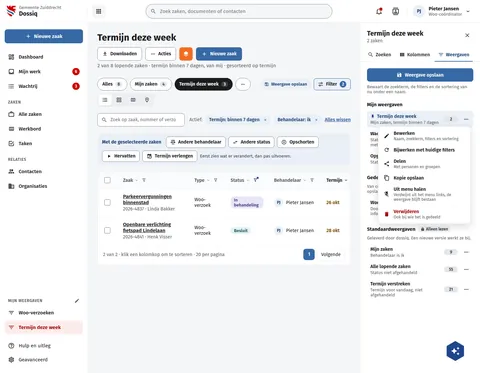
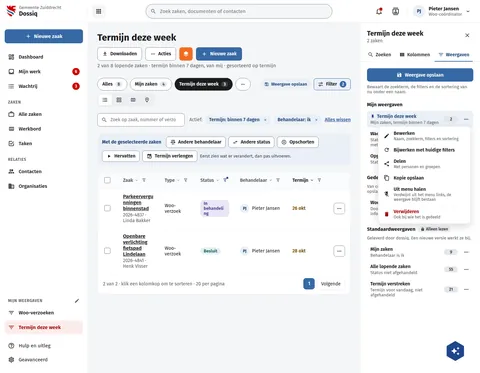
fix(screens): the case table fits its column beside the side panel
DqFilterBeheren and DqFilterInMenu drew the table with min-width 860px, so
the list card grew to about 836px in a 760px column. The table drops the
minimum and fits its column as live will (nextcloud-vue
fix/r30-board-table-fits-beside-side-panel): body cells wrap (a long word
breaks), headers stay on one line. Rendered: table 758 in 758, no sideways
scroll. DqFilterBeheren height 1391 -> 1745; screens.json for it only.
DqZakenSorteren shows cards, not this table, and is unchanged.

Assisted-by: ClaudeCode:claude-opus-5-5

diff --git a/preview/screens/boards/DqFilterBeheren.html b/preview/screens/boards/DqFilterBeheren.html
@@ -189,8 +189,8 @@ a{color:var(--sc-primary, #3669a5)}a:hover{color:var(--sc-primary-deep, #234a78)
         <div role="region" aria-label="Acties voor de selectie" style="display: flex; flex-wrap: wrap; gap: 8px; align-items: center; padding: 10px 14px; border-radius: 10px; background: var(--sc-primary-light, #eaf0f7); color: var(--sc-primary-deep, #234a78); font-size: 14px"><strong style="margin-right: 6px">Met de geselecteerde zaken</strong><button type="button" style="display: inline-flex; align-items: center; gap: 8px; height: 34px; padding: 0 12px; border-radius: 8px; font: 600 14px var(--sc-font, 'Fira Sans'), sans-serif; white-space: nowrap; border: 1px solid var(--sc-work-field, #828a95); background: #ffffff; color: var(--sc-work-ink, #1b1c1d)"><svg width="16" height="16" viewbox="0 0 24 24" fill="currentColor" aria-hidden="true"><path d="M16 9C22 9 22 13 22 13V15H16V13C16 13 16 11.31 14.85 9.8C14.68 9.57 14.47 9.35 14.25 9.14C14.77 9.06 15.34 9 16 9M8 11C11.5 11 11.94 12.56 12 13H4C4.06 12.56 4.5 11 8 11M8 9C2 9 2 13 2 13V15H14V13C14 13 14 9 8 9M9 17V19H15V17L18 20L15 23V21H9V23L6 20L9 17M8 3C8.55 3 9 3.45 9 4S8.55 5 8 5 7 4.55 7 4 7.45 3 8 3M8 1C6.34 1 5 2.34 5 4S6.34 7 8 7 11 5.66 11 4 9.66 1 8 1M16 1C14.34 1 13 2.34 13 4S14.34 7 16 7 19 5.66 19 4 17.66 1 16 1Z"></path></svg>Andere behandelaar</button><button type="button" style="display: inline-flex; align-items: center; gap: 8px; height: 34px; padding: 0 12px; border-radius: 8px; font: 600 14px var(--sc-font, 'Fira Sans'), sans-serif; white-space: nowrap; border: 1px solid var(--sc-work-field, #828a95); background: #ffffff; color: var(--sc-work-ink, #1b1c1d)"><svg width="16" height="16" viewbox="0 0 24 24" fill="currentColor" aria-hidden="true"><path d="M21,9L17,5V8H10V10H17V13M7,11L3,15L7,19V16H14V14H7V11Z"></path></svg>Andere status</button><button type="button" style="display: inline-flex; align-items: center; gap: 8px; height: 34px; padding: 0 12px; border-radius: 8px; font: 600 14px var(--sc-font, 'Fira Sans'), sans-serif; white-space: nowrap; border: 1px solid var(--sc-work-field, #828a95); background: #ffffff; color: var(--sc-work-ink, #1b1c1d)"><svg width="16" height="16" viewbox="0 0 24 24" fill="currentColor" aria-hidden="true"><path d="M13,16V8H15V16H13M9,16V8H11V16H9M12,2A10,10 0 0,1 22,12A10,10 0 0,1 12,22A10,10 0 0,1 2,12A10,10 0 0,1 12,2M12,4A8,8 0 0,0 4,12A8,8 0 0,0 12,20A8,8 0 0,0 20,12A8,8 0 0,0 12,4Z"></path></svg>Opschorten</button><button type="button" style="display: inline-flex; align-items: center; gap: 8px; height: 34px; padding: 0 12px; border-radius: 8px; font: 600 14px var(--sc-font, 'Fira Sans'), sans-serif; white-space: nowrap; border: 1px solid var(--sc-work-field, #828a95); background: #ffffff; color: var(--sc-work-ink, #1b1c1d)"><svg width="16" height="16" viewbox="0 0 24 24" fill="currentColor" aria-hidden="true"><path d="M8,5.14V19.14L19,12.14L8,5.14Z"></path></svg>Hervatten</button><button type="button" style="display: inline-flex; align-items: center; gap: 8px; height: 34px; padding: 0 12px; border-radius: 8px; font: 600 14px var(--sc-font, 'Fira Sans'), sans-serif; white-space: nowrap; border: 1px solid var(--sc-work-field, #828a95); background: #ffffff; color: var(--sc-work-ink, #1b1c1d)"><svg width="16" height="16" viewbox="0 0 24 24" fill="currentColor" aria-hidden="true"><path d="M15,13H16.5V15.82L18.94,17.23L18.19,18.53L15,16.69V13M19,8H5V19H9.67C9.24,18.09 9,17.07 9,16A7,7 0 0,1 16,9C17.07,9 18.09,9.24 19,9.67V8M5,21C3.89,21 3,20.1 3,19V5C3,3.89 3.89,3 5,3H6V1H8V3H16V1H18V3H19A2,2 0 0,1 21,5V11.1C22.24,12.36 23,14.09 23,16A7,7 0 0,1 16,23C14.09,23 12.36,22.24 11.1,21H5M16,11.15A4.85,4.85 0 0,0 11.15,16C11.15,18.68 13.32,20.85 16,20.85A4.85,4.85 0 0,0 20.85,16C20.85,13.32 18.68,11.15 16,11.15Z"></path></svg>Termijn verlengen</button><span style="font-size: 13px; color: var(--sc-work-text, #3d4047)">Eerst zien wat er verandert, dan pas uitvoeren.</span></div>
         <div style="background: #ffffff; border: 1px solid var(--sc-work-line, #e4e6ea); border-radius: 12px; overflow: hidden">
           <div style="overflow-x: auto">
-            <table style="border-collapse: collapse; width: 100%; min-width: 860px; font-size: 14px">
-              <thead>
+            <table style="border-collapse: collapse; width: 100%; font-size: 14px">
+              <thead style="white-space: nowrap;">
                 <tr style="text-align: left; color: var(--sc-work-muted, #5e6168); background: #fafbfc">
                   <th scope="col" style="padding: 12px 16px; width: 28px"><input type="checkbox" aria-label="Alle zaken selecteren" style="width: 18px; height: 18px; accent-color: var(--sc-primary, #3669a5)"></th>
                   <th scope="col" style="padding: 12px 16px; font-weight: 600"><span style="display: inline-flex; align-items: center; gap: 4px"><button type="button" style="border: 0; background: transparent; padding: 0; font: inherit; color: inherit; display: inline-flex; gap: 4px; align-items: center; text-align: left">Zaak <svg width="14" height="14" viewbox="0 0 24 24" fill="#828a95" aria-hidden="true" style="fill:var(--sc-work-field, #828a95)"><path d="M7.41,8.58L12,13.17L16.59,8.58L18,10L12,16L6,10L7.41,8.58Z"></path></svg></button><button type="button" aria-haspopup="dialog" aria-label="Filteren op Zaak" title="Filteren op Zaak" style="width: 22px; height: 22px; padding: 0; border: 0; border-radius: 4px; background: transparent; color: var(--sc-work-muted, #5e6168); display: inline-flex; align-items: center; justify-content: center"><svg width="14" height="14" viewbox="0 0 24 24" fill="currentColor" aria-hidden="true"><path d="M15,19.88C15.04,20.18 14.94,20.5 14.71,20.71C14.32,21.1 13.69,21.1 13.3,20.71L9.29,16.7C9.06,16.47 8.96,16.16 9,15.87V10.75L4.21,4.62C3.87,4.19 3.95,3.56 4.38,3.22C4.57,3.08 4.78,3 5,3V3H19V3C19.22,3 19.43,3.08 19.62,3.22C20.05,3.56 20.13,4.19 19.79,4.62L15,10.75V19.88M7.04,5L11,10.06V15.58L13,17.58V10.05L16.96,5H7.04Z"></path></svg></button></span></th>
@@ -200,7 +200,7 @@ a{color:var(--sc-primary, #3669a5)}a:hover{color:var(--sc-primary-deep, #234a78)
                   <th scope="col" style="padding: 12px 16px; font-weight: 600"><span style="display: inline-flex; align-items: center; gap: 4px"><button type="button" style="border: 0; background: transparent; padding: 0; font: 600 14px var(--sc-font, 'Fira Sans'), sans-serif; color: var(--sc-work-ink, #1b1c1d); display: flex; gap: 4px; align-items: center">Termijn <svg width="14" height="14" viewbox="0 0 24 24" fill="currentColor"><path d="M7.41,8.58L12,13.17L16.59,8.58L18,10L12,16L6,10L7.41,8.58Z"></path></svg></button><button type="button" aria-haspopup="dialog" aria-label="Filteren op Termijn" title="Filteren op Termijn" style="width: 22px; height: 22px; padding: 0; border: 0; border-radius: 4px; background: transparent; color: var(--sc-work-muted, #5e6168); display: inline-flex; align-items: center; justify-content: center"><svg width="14" height="14" viewbox="0 0 24 24" fill="currentColor" aria-hidden="true"><path d="M15,19.88C15.04,20.18 14.94,20.5 14.71,20.71C14.32,21.1 13.69,21.1 13.3,20.71L9.29,16.7C9.06,16.47 8.96,16.16 9,15.87V10.75L4.21,4.62C3.87,4.19 3.95,3.56 4.38,3.22C4.57,3.08 4.78,3 5,3V3H19V3C19.22,3 19.43,3.08 19.62,3.22C20.05,3.56 20.13,4.19 19.79,4.62L15,10.75V19.88M7.04,5L11,10.06V15.58L13,17.58V10.05L16.96,5H7.04Z"></path></svg></button></span></th>
                 <th scope="col" style="padding: 12px 16px"><span style="position: absolute; width: 1px; height: 1px; overflow: hidden; clip: rect(0 0 0 0)">Acties</span></th></tr>
               </thead>
-              <tbody>
+              <tbody style="overflow-wrap: anywhere;">
                 
                   <tr style="border-top: 1px solid var(--sc-work-soft, #eef0f3)">
                     <td style="padding: 14px 16px"><input type="checkbox" aria-label="Selecteer Parkeervergunningen binnenstad" style="width: 18px; height: 18px; accent-color: var(--sc-primary, #3669a5)"></td>

diff --git a/preview/screens/boards/DqFilterInMenu.html b/preview/screens/boards/DqFilterInMenu.html
@@ -189,8 +189,8 @@ a{color:var(--sc-primary, #3669a5)}a:hover{color:var(--sc-primary-deep, #234a78)
         <div role="region" aria-label="Acties voor de selectie" style="display: flex; flex-wrap: wrap; gap: 8px; align-items: center; padding: 10px 14px; border-radius: 10px; background: var(--sc-primary-light, #eaf0f7); color: var(--sc-primary-deep, #234a78); font-size: 14px"><strong style="margin-right: 6px">Met de geselecteerde zaken</strong><button type="button" style="display: inline-flex; align-items: center; gap: 8px; height: 34px; padding: 0 12px; border-radius: 8px; font: 600 14px var(--sc-font, 'Fira Sans'), sans-serif; white-space: nowrap; border: 1px solid var(--sc-work-field, #828a95); background: #ffffff; color: var(--sc-work-ink, #1b1c1d)"><svg width="16" height="16" viewbox="0 0 24 24" fill="currentColor" aria-hidden="true"><path d="M16 9C22 9 22 13 22 13V15H16V13C16 13 16 11.31 14.85 9.8C14.68 9.57 14.47 9.35 14.25 9.14C14.77 9.06 15.34 9 16 9M8 11C11.5 11 11.94 12.56 12 13H4C4.06 12.56 4.5 11 8 11M8 9C2 9 2 13 2 13V15H14V13C14 13 14 9 8 9M9 17V19H15V17L18 20L15 23V21H9V23L6 20L9 17M8 3C8.55 3 9 3.45 9 4S8.55 5 8 5 7 4.55 7 4 7.45 3 8 3M8 1C6.34 1 5 2.34 5 4S6.34 7 8 7 11 5.66 11 4 9.66 1 8 1M16 1C14.34 1 13 2.34 13 4S14.34 7 16 7 19 5.66 19 4 17.66 1 16 1Z"></path></svg>Andere behandelaar</button><button type="button" style="display: inline-flex; align-items: center; gap: 8px; height: 34px; padding: 0 12px; border-radius: 8px; font: 600 14px var(--sc-font, 'Fira Sans'), sans-serif; white-space: nowrap; border: 1px solid var(--sc-work-field, #828a95); background: #ffffff; color: var(--sc-work-ink, #1b1c1d)"><svg width="16" height="16" viewbox="0 0 24 24" fill="currentColor" aria-hidden="true"><path d="M21,9L17,5V8H10V10H17V13M7,11L3,15L7,19V16H14V14H7V11Z"></path></svg>Andere status</button><button type="button" style="display: inline-flex; align-items: center; gap: 8px; height: 34px; padding: 0 12px; border-radius: 8px; font: 600 14px var(--sc-font, 'Fira Sans'), sans-serif; white-space: nowrap; border: 1px solid var(--sc-work-field, #828a95); background: #ffffff; color: var(--sc-work-ink, #1b1c1d)"><svg width="16" height="16" viewbox="0 0 24 24" fill="currentColor" aria-hidden="true"><path d="M13,16V8H15V16H13M9,16V8H11V16H9M12,2A10,10 0 0,1 22,12A10,10 0 0,1 12,22A10,10 0 0,1 2,12A10,10 0 0,1 12,2M12,4A8,8 0 0,0 4,12A8,8 0 0,0 12,20A8,8 0 0,0 20,12A8,8 0 0,0 12,4Z"></path></svg>Opschorten</button><button type="button" style="display: inline-flex; align-items: center; gap: 8px; height: 34px; padding: 0 12px; border-radius: 8px; font: 600 14px var(--sc-font, 'Fira Sans'), sans-serif; white-space: nowrap; border: 1px solid var(--sc-work-field, #828a95); background: #ffffff; color: var(--sc-work-ink, #1b1c1d)"><svg width="16" height="16" viewbox="0 0 24 24" fill="currentColor" aria-hidden="true"><path d="M8,5.14V19.14L19,12.14L8,5.14Z"></path></svg>Hervatten</button><button type="button" style="display: inline-flex; align-items: center; gap: 8px; height: 34px; padding: 0 12px; border-radius: 8px; font: 600 14px var(--sc-font, 'Fira Sans'), sans-serif; white-space: nowrap; border: 1px solid var(--sc-work-field, #828a95); background: #ffffff; color: var(--sc-work-ink, #1b1c1d)"><svg width="16" height="16" viewbox="0 0 24 24" fill="currentColor" aria-hidden="true"><path d="M15,13H16.5V15.82L18.94,17.23L18.19,18.53L15,16.69V13M19,8H5V19H9.67C9.24,18.09 9,17.07 9,16A7,7 0 0,1 16,9C17.07,9 18.09,9.24 19,9.67V8M5,21C3.89,21 3,20.1 3,19V5C3,3.89 3.89,3 5,3H6V1H8V3H16V1H18V3H19A2,2 0 0,1 21,5V11.1C22.24,12.36 23,14.09 23,16A7,7 0 0,1 16,23C14.09,23 12.36,22.24 11.1,21H5M16,11.15A4.85,4.85 0 0,0 11.15,16C11.15,18.68 13.32,20.85 16,20.85A4.85,4.85 0 0,0 20.85,16C20.85,13.32 18.68,11.15 16,11.15Z"></path></svg>Termijn verlengen</button><span style="font-size: 13px; color: var(--sc-work-text, #3d4047)">Eerst zien wat er verandert, dan pas uitvoeren.</span></div>
         <div style="background: #ffffff; border: 1px solid var(--sc-work-line, #e4e6ea); border-radius: 12px; overflow: hidden">
           <div style="overflow-x: auto">
-            <table style="border-collapse: collapse; width: 100%; min-width: 860px; font-size: 14px">
-              <thead>
+            <table style="border-collapse: collapse; width: 100%; font-size: 14px">
+              <thead style="white-space: nowrap;">
                 <tr style="text-align: left; color: var(--sc-work-muted, #5e6168); background: #fafbfc">
                   <th scope="col" style="padding: 12px 16px; width: 28px"><input type="checkbox" aria-label="Alle zaken selecteren" style="width: 18px; height: 18px; accent-color: var(--sc-primary, #3669a5)"></th>
                   <th scope="col" style="padding: 12px 16px; font-weight: 600"><span style="display: inline-flex; align-items: center; gap: 4px"><button type="button" style="border: 0; background: transparent; padding: 0; font: inherit; color: inherit; display: inline-flex; gap: 4px; align-items: center; text-align: left">Zaak <svg width="14" height="14" viewbox="0 0 24 24" fill="#828a95" aria-hidden="true" style="fill:var(--sc-work-field, #828a95)"><path d="M7.41,8.58L12,13.17L16.59,8.58L18,10L12,16L6,10L7.41,8.58Z"></path></svg></button><button type="button" aria-haspopup="dialog" aria-label="Filteren op Zaak" title="Filteren op Zaak" style="width: 22px; height: 22px; padding: 0; border: 0; border-radius: 4px; background: transparent; color: var(--sc-work-muted, #5e6168); display: inline-flex; align-items: center; justify-content: center"><svg width="14" height="14" viewbox="0 0 24 24" fill="currentColor" aria-hidden="true"><path d="M15,19.88C15.04,20.18 14.94,20.5 14.71,20.71C14.32,21.1 13.69,21.1 13.3,20.71L9.29,16.7C9.06,16.47 8.96,16.16 9,15.87V10.75L4.21,4.62C3.87,4.19 3.95,3.56 4.38,3.22C4.57,3.08 4.78,3 5,3V3H19V3C19.22,3 19.43,3.08 19.62,3.22C20.05,3.56 20.13,4.19 19.79,4.62L15,10.75V19.88M7.04,5L11,10.06V15.58L13,17.58V10.05L16.96,5H7.04Z"></path></svg></button></span></th>
@@ -200,7 +200,7 @@ a{color:var(--sc-primary, #3669a5)}a:hover{color:var(--sc-primary-deep, #234a78)
                   <th scope="col" style="padding: 12px 16px; font-weight: 600"><span style="display: inline-flex; align-items: center; gap: 4px"><button type="button" style="border: 0; background: transparent; padding: 0; font: 600 14px var(--sc-font, 'Fira Sans'), sans-serif; color: var(--sc-work-ink, #1b1c1d); display: flex; gap: 4px; align-items: center">Termijn <svg width="14" height="14" viewbox="0 0 24 24" fill="currentColor"><path d="M7.41,8.58L12,13.17L16.59,8.58L18,10L12,16L6,10L7.41,8.58Z"></path></svg></button><button type="button" aria-haspopup="dialog" aria-label="Filteren op Termijn" title="Filteren op Termijn" style="width: 22px; height: 22px; padding: 0; border: 0; border-radius: 4px; background: transparent; color: var(--sc-work-muted, #5e6168); display: inline-flex; align-items: center; justify-content: center"><svg width="14" height="14" viewbox="0 0 24 24" fill="currentColor" aria-hidden="true"><path d="M15,19.88C15.04,20.18 14.94,20.5 14.71,20.71C14.32,21.1 13.69,21.1 13.3,20.71L9.29,16.7C9.06,16.47 8.96,16.16 9,15.87V10.75L4.21,4.62C3.87,4.19 3.95,3.56 4.38,3.22C4.57,3.08 4.78,3 5,3V3H19V3C19.22,3 19.43,3.08 19.62,3.22C20.05,3.56 20.13,4.19 19.79,4.62L15,10.75V19.88M7.04,5L11,10.06V15.58L13,17.58V10.05L16.96,5H7.04Z"></path></svg></button></span></th>
                 <th scope="col" style="padding: 12px 16px"><span style="position: absolute; width: 1px; height: 1px; overflow: hidden; clip: rect(0 0 0 0)">Acties</span></th></tr>
               </thead>
-              <tbody>
+              <tbody style="overflow-wrap: anywhere;">
                 
                   <tr style="border-top: 1px solid var(--sc-work-soft, #eef0f3)">
                     <td style="padding: 14px 16px"><input type="checkbox" aria-label="Selecteer Parkeervergunningen binnenstad" style="width: 18px; height: 18px; accent-color: var(--sc-primary, #3669a5)"></td>

diff --git a/screens-src/zuiddrecht/DqFilterBeheren.dc.html b/screens-src/zuiddrecht/DqFilterBeheren.dc.html
@@ -61,8 +61,8 @@ a{color:#3669a5}a:hover{color:#234a78}
         <div role="region" aria-label="Acties voor de selectie" style="display: flex; flex-wrap: wrap; gap: 8px; align-items: center; padding: 10px 14px; border-radius: 10px; background: #eaf0f7; color: #234a78; font-size: 14px"><strong style="margin-right: 6px">Met de geselecteerde zaken</strong><button type="button" style="display: inline-flex; align-items: center; gap: 8px; height: 34px; padding: 0 12px; border-radius: 8px; font: 600 14px 'Fira Sans', sans-serif; white-space: nowrap; border: 1px solid #828a95; background: #ffffff; color: #1b1c1d"><svg width="16" height="16" viewBox="0 0 24 24" fill="currentColor" aria-hidden="true"><path d="M16 9C22 9 22 13 22 13V15H16V13C16 13 16 11.31 14.85 9.8C14.68 9.57 14.47 9.35 14.25 9.14C14.77 9.06 15.34 9 16 9M8 11C11.5 11 11.94 12.56 12 13H4C4.06 12.56 4.5 11 8 11M8 9C2 9 2 13 2 13V15H14V13C14 13 14 9 8 9M9 17V19H15V17L18 20L15 23V21H9V23L6 20L9 17M8 3C8.55 3 9 3.45 9 4S8.55 5 8 5 7 4.55 7 4 7.45 3 8 3M8 1C6.34 1 5 2.34 5 4S6.34 7 8 7 11 5.66 11 4 9.66 1 8 1M16 1C14.34 1 13 2.34 13 4S14.34 7 16 7 19 5.66 19 4 17.66 1 16 1Z"></path></svg>Andere behandelaar</button><button type="button" style="display: inline-flex; align-items: center; gap: 8px; height: 34px; padding: 0 12px; border-radius: 8px; font: 600 14px 'Fira Sans', sans-serif; white-space: nowrap; border: 1px solid #828a95; background: #ffffff; color: #1b1c1d"><svg width="16" height="16" viewBox="0 0 24 24" fill="currentColor" aria-hidden="true"><path d="M21,9L17,5V8H10V10H17V13M7,11L3,15L7,19V16H14V14H7V11Z"></path></svg>Andere status</button><button type="button" style="display: inline-flex; align-items: center; gap: 8px; height: 34px; padding: 0 12px; border-radius: 8px; font: 600 14px 'Fira Sans', sans-serif; white-space: nowrap; border: 1px solid #828a95; background: #ffffff; color: #1b1c1d"><svg width="16" height="16" viewBox="0 0 24 24" fill="currentColor" aria-hidden="true"><path d="M13,16V8H15V16H13M9,16V8H11V16H9M12,2A10,10 0 0,1 22,12A10,10 0 0,1 12,22A10,10 0 0,1 2,12A10,10 0 0,1 12,2M12,4A8,8 0 0,0 4,12A8,8 0 0,0 12,20A8,8 0 0,0 20,12A8,8 0 0,0 12,4Z"></path></svg>Opschorten</button><button type="button" style="display: inline-flex; align-items: center; gap: 8px; height: 34px; padding: 0 12px; border-radius: 8px; font: 600 14px 'Fira Sans', sans-serif; white-space: nowrap; border: 1px solid #828a95; background: #ffffff; color: #1b1c1d"><svg width="16" height="16" viewBox="0 0 24 24" fill="currentColor" aria-hidden="true"><path d="M8,5.14V19.14L19,12.14L8,5.14Z"></path></svg>Hervatten</button><button type="button" style="display: inline-flex; align-items: center; gap: 8px; height: 34px; padding: 0 12px; border-radius: 8px; font: 600 14px 'Fira Sans', sans-serif; white-space: nowrap; border: 1px solid #828a95; background: #ffffff; color: #1b1c1d"><svg width="16" height="16" viewBox="0 0 24 24" fill="currentColor" aria-hidden="true"><path d="M15,13H16.5V15.82L18.94,17.23L18.19,18.53L15,16.69V13M19,8H5V19H9.67C9.24,18.09 9,17.07 9,16A7,7 0 0,1 16,9C17.07,9 18.09,9.24 19,9.67V8M5,21C3.89,21 3,20.1 3,19V5C3,3.89 3.89,3 5,3H6V1H8V3H16V1H18V3H19A2,2 0 0,1 21,5V11.1C22.24,12.36 23,14.09 23,16A7,7 0 0,1 16,23C14.09,23 12.36,22.24 11.1,21H5M16,11.15A4.85,4.85 0 0,0 11.15,16C11.15,18.68 13.32,20.85 16,20.85A4.85,4.85 0 0,0 20.85,16C20.85,13.32 18.68,11.15 16,11.15Z"></path></svg>Termijn verlengen</button><span style="font-size: 13px; color: #3d4047">Eerst zien wat er verandert, dan pas uitvoeren.</span></div>
         <div style="background: #ffffff; border: 1px solid #e4e6ea; border-radius: 12px; overflow: hidden">
           <div style="overflow-x: auto">
-            <table style="border-collapse: collapse; width: 100%; min-width: 860px; font-size: 14px">
-              <thead>
+            <table style="border-collapse: collapse; width: 100%; font-size: 14px">
+              <thead style="white-space: nowrap;">
                 <tr style="text-align: left; color: #5e6168; background: #fafbfc">
                   <th scope="col" style="padding: 12px 16px; width: 28px"><input type="checkbox" aria-label="Alle zaken selecteren" style="width: 18px; height: 18px; accent-color: #3669a5"></th>
                   <th scope="col" style="padding: 12px 16px; font-weight: 600"><span style="display: inline-flex; align-items: center; gap: 4px"><button type="button" style="border: 0; background: transparent; padding: 0; font: inherit; color: inherit; display: inline-flex; gap: 4px; align-items: center; text-align: left">Zaak <svg width="14" height="14" viewBox="0 0 24 24" fill="#828a95" aria-hidden="true"><path d="M7.41,8.58L12,13.17L16.59,8.58L18,10L12,16L6,10L7.41,8.58Z"></path></svg></button><button type="button" aria-haspopup="dialog" aria-label="Filteren op Zaak" title="Filteren op Zaak" style="width: 22px; height: 22px; padding: 0; border: 0; border-radius: 4px; background: transparent; color: #5e6168; display: inline-flex; align-items: center; justify-content: center"><svg width="14" height="14" viewBox="0 0 24 24" fill="currentColor" aria-hidden="true"><path d="M15,19.88C15.04,20.18 14.94,20.5 14.71,20.71C14.32,21.1 13.69,21.1 13.3,20.71L9.29,16.7C9.06,16.47 8.96,16.16 9,15.87V10.75L4.21,4.62C3.87,4.19 3.95,3.56 4.38,3.22C4.57,3.08 4.78,3 5,3V3H19V3C19.22,3 19.43,3.08 19.62,3.22C20.05,3.56 20.13,4.19 19.79,4.62L15,10.75V19.88M7.04,5L11,10.06V15.58L13,17.58V10.05L16.96,5H7.04Z"></path></svg></button></span></th>
@@ -72,7 +72,7 @@ a{color:#3669a5}a:hover{color:#234a78}
                   <th scope="col" style="padding: 12px 16px; font-weight: 600"><span style="display: inline-flex; align-items: center; gap: 4px"><button type="button" style="border: 0; background: transparent; padding: 0; font: 600 14px 'Fira Sans', sans-serif; color: #1b1c1d; display: flex; gap: 4px; align-items: center">Termijn <svg width="14" height="14" viewBox="0 0 24 24" fill="currentColor"><path d="M7.41,8.58L12,13.17L16.59,8.58L18,10L12,16L6,10L7.41,8.58Z"></path></svg></button><button type="button" aria-haspopup="dialog" aria-label="Filteren op Termijn" title="Filteren op Termijn" style="width: 22px; height: 22px; padding: 0; border: 0; border-radius: 4px; background: transparent; color: #5e6168; display: inline-flex; align-items: center; justify-content: center"><svg width="14" height="14" viewBox="0 0 24 24" fill="currentColor" aria-hidden="true"><path d="M15,19.88C15.04,20.18 14.94,20.5 14.71,20.71C14.32,21.1 13.69,21.1 13.3,20.71L9.29,16.7C9.06,16.47 8.96,16.16 9,15.87V10.75L4.21,4.62C3.87,4.19 3.95,3.56 4.38,3.22C4.57,3.08 4.78,3 5,3V3H19V3C19.22,3 19.43,3.08 19.62,3.22C20.05,3.56 20.13,4.19 19.79,4.62L15,10.75V19.88M7.04,5L11,10.06V15.58L13,17.58V10.05L16.96,5H7.04Z"></path></svg></button></span></th>
                 <th scope="col" style="padding: 12px 16px"><span style="position: absolute; width: 1px; height: 1px; overflow: hidden; clip: rect(0 0 0 0)">Acties</span></th></tr>
               </thead>
-              <tbody>
+              <tbody style="overflow-wrap: anywhere;">
                 <sc-for list="{{ rows }}" as="r" hint-placeholder-count="8">
                   <tr style="border-top: 1px solid #eef0f3">
                     <td style="padding: 14px 16px"><input type="checkbox" aria-label="{{ r.selectLabel }}" style="width: 18px; height: 18px; accent-color: #3669a5"></td>

diff --git a/screens-src/zuiddrecht/DqFilterInMenu.dc.html b/screens-src/zuiddrecht/DqFilterInMenu.dc.html
@@ -61,8 +61,8 @@ a{color:#3669a5}a:hover{color:#234a78}
         <div role="region" aria-label="Acties voor de selectie" style="display: flex; flex-wrap: wrap; gap: 8px; align-items: center; padding: 10px 14px; border-radius: 10px; background: #eaf0f7; color: #234a78; font-size: 14px"><strong style="margin-right: 6px">Met de geselecteerde zaken</strong><button type="button" style="display: inline-flex; align-items: center; gap: 8px; height: 34px; padding: 0 12px; border-radius: 8px; font: 600 14px 'Fira Sans', sans-serif; white-space: nowrap; border: 1px solid #828a95; background: #ffffff; color: #1b1c1d"><svg width="16" height="16" viewBox="0 0 24 24" fill="currentColor" aria-hidden="true"><path d="M16 9C22 9 22 13 22 13V15H16V13C16 13 16 11.31 14.85 9.8C14.68 9.57 14.47 9.35 14.25 9.14C14.77 9.06 15.34 9 16 9M8 11C11.5 11 11.94 12.56 12 13H4C4.06 12.56 4.5 11 8 11M8 9C2 9 2 13 2 13V15H14V13C14 13 14 9 8 9M9 17V19H15V17L18 20L15 23V21H9V23L6 20L9 17M8 3C8.55 3 9 3.45 9 4S8.55 5 8 5 7 4.55 7 4 7.45 3 8 3M8 1C6.34 1 5 2.34 5 4S6.34 7 8 7 11 5.66 11 4 9.66 1 8 1M16 1C14.34 1 13 2.34 13 4S14.34 7 16 7 19 5.66 19 4 17.66 1 16 1Z"></path></svg>Andere behandelaar</button><button type="button" style="display: inline-flex; align-items: center; gap: 8px; height: 34px; padding: 0 12px; border-radius: 8px; font: 600 14px 'Fira Sans', sans-serif; white-space: nowrap; border: 1px solid #828a95; background: #ffffff; color: #1b1c1d"><svg width="16" height="16" viewBox="0 0 24 24" fill="currentColor" aria-hidden="true"><path d="M21,9L17,5V8H10V10H17V13M7,11L3,15L7,19V16H14V14H7V11Z"></path></svg>Andere status</button><button type="button" style="display: inline-flex; align-items: center; gap: 8px; height: 34px; padding: 0 12px; border-radius: 8px; font: 600 14px 'Fira Sans', sans-serif; white-space: nowrap; border: 1px solid #828a95; background: #ffffff; color: #1b1c1d"><svg width="16" height="16" viewBox="0 0 24 24" fill="currentColor" aria-hidden="true"><path d="M13,16V8H15V16H13M9,16V8H11V16H9M12,2A10,10 0 0,1 22,12A10,10 0 0,1 12,22A10,10 0 0,1 2,12A10,10 0 0,1 12,2M12,4A8,8 0 0,0 4,12A8,8 0 0,0 12,20A8,8 0 0,0 20,12A8,8 0 0,0 12,4Z"></path></svg>Opschorten</button><button type="button" style="display: inline-flex; align-items: center; gap: 8px; height: 34px; padding: 0 12px; border-radius: 8px; font: 600 14px 'Fira Sans', sans-serif; white-space: nowrap; border: 1px solid #828a95; background: #ffffff; color: #1b1c1d"><svg width="16" height="16" viewBox="0 0 24 24" fill="currentColor" aria-hidden="true"><path d="M8,5.14V19.14L19,12.14L8,5.14Z"></path></svg>Hervatten</button><button type="button" style="display: inline-flex; align-items: center; gap: 8px; height: 34px; padding: 0 12px; border-radius: 8px; font: 600 14px 'Fira Sans', sans-serif; white-space: nowrap; border: 1px solid #828a95; background: #ffffff; color: #1b1c1d"><svg width="16" height="16" viewBox="0 0 24 24" fill="currentColor" aria-hidden="true"><path d="M15,13H16.5V15.82L18.94,17.23L18.19,18.53L15,16.69V13M19,8H5V19H9.67C9.24,18.09 9,17.07 9,16A7,7 0 0,1 16,9C17.07,9 18.09,9.24 19,9.67V8M5,21C3.89,21 3,20.1 3,19V5C3,3.89 3.89,3 5,3H6V1H8V3H16V1H18V3H19A2,2 0 0,1 21,5V11.1C22.24,12.36 23,14.09 23,16A7,7 0 0,1 16,23C14.09,23 12.36,22.24 11.1,21H5M16,11.15A4.85,4.85 0 0,0 11.15,16C11.15,18.68 13.32,20.85 16,20.85A4.85,4.85 0 0,0 20.85,16C20.85,13.32 18.68,11.15 16,11.15Z"></path></svg>Termijn verlengen</button><span style="font-size: 13px; color: #3d4047">Eerst zien wat er verandert, dan pas uitvoeren.</span></div>
         <div style="background: #ffffff; border: 1px solid #e4e6ea; border-radius: 12px; overflow: hidden">
           <div style="overflow-x: auto">
-            <table style="border-collapse: collapse; width: 100%; min-width: 860px; font-size: 14px">
-              <thead>
+            <table style="border-collapse: collapse; width: 100%; font-size: 14px">
+              <thead style="white-space: nowrap;">
                 <tr style="text-align: left; color: #5e6168; background: #fafbfc">
                   <th scope="col" style="padding: 12px 16px; width: 28px"><input type="checkbox" aria-label="Alle zaken selecteren" style="width: 18px; height: 18px; accent-color: #3669a5"></th>
                   <th scope="col" style="padding: 12px 16px; font-weight: 600"><span style="display: inline-flex; align-items: center; gap: 4px"><button type="button" style="border: 0; background: transparent; padding: 0; font: inherit; color: inherit; display: inline-flex; gap: 4px; align-items: center; text-align: left">Zaak <svg width="14" height="14" viewBox="0 0 24 24" fill="#828a95" aria-hidden="true"><path d="M7.41,8.58L12,13.17L16.59,8.58L18,10L12,16L6,10L7.41,8.58Z"></path></svg></button><button type="button" aria-haspopup="dialog" aria-label="Filteren op Zaak" title="Filteren op Zaak" style="width: 22px; height: 22px; padding: 0; border: 0; border-radius: 4px; background: transparent; color: #5e6168; display: inline-flex; align-items: center; justify-content: center"><svg width="14" height="14" viewBox="0 0 24 24" fill="currentColor" aria-hidden="true"><path d="M15,19.88C15.04,20.18 14.94,20.5 14.71,20.71C14.32,21.1 13.69,21.1 13.3,20.71L9.29,16.7C9.06,16.47 8.96,16.16 9,15.87V10.75L4.21,4.62C3.87,4.19 3.95,3.56 4.38,3.22C4.57,3.08 4.78,3 5,3V3H19V3C19.22,3 19.43,3.08 19.62,3.22C20.05,3.56 20.13,4.19 19.79,4.62L15,10.75V19.88M7.04,5L11,10.06V15.58L13,17.58V10.05L16.96,5H7.04Z"></path></svg></button></span></th>
@@ -72,7 +72,7 @@ a{color:#3669a5}a:hover{color:#234a78}
                   <th scope="col" style="padding: 12px 16px; font-weight: 600"><span style="display: inline-flex; align-items: center; gap: 4px"><button type="button" style="border: 0; background: transparent; padding: 0; font: 600 14px 'Fira Sans', sans-serif; color: #1b1c1d; display: flex; gap: 4px; align-items: center">Termijn <svg width="14" height="14" viewBox="0 0 24 24" fill="currentColor"><path d="M7.41,8.58L12,13.17L16.59,8.58L18,10L12,16L6,10L7.41,8.58Z"></path></svg></button><button type="button" aria-haspopup="dialog" aria-label="Filteren op Termijn" title="Filteren op Termijn" style="width: 22px; height: 22px; padding: 0; border: 0; border-radius: 4px; background: transparent; color: #5e6168; display: inline-flex; align-items: center; justify-content: center"><svg width="14" height="14" viewBox="0 0 24 24" fill="currentColor" aria-hidden="true"><path d="M15,19.88C15.04,20.18 14.94,20.5 14.71,20.71C14.32,21.1 13.69,21.1 13.3,20.71L9.29,16.7C9.06,16.47 8.96,16.16 9,15.87V10.75L4.21,4.62C3.87,4.19 3.95,3.56 4.38,3.22C4.57,3.08 4.78,3 5,3V3H19V3C19.22,3 19.43,3.08 19.62,3.22C20.05,3.56 20.13,4.19 19.79,4.62L15,10.75V19.88M7.04,5L11,10.06V15.58L13,17.58V10.05L16.96,5H7.04Z"></path></svg></button></span></th>
                 <th scope="col" style="padding: 12px 16px"><span style="position: absolute; width: 1px; height: 1px; overflow: hidden; clip: rect(0 0 0 0)">Acties</span></th></tr>
               </thead>
-              <tbody>
+              <tbody style="overflow-wrap: anywhere;">
                 <sc-for list="{{ rows }}" as="r" hint-placeholder-count="8">
                   <tr style="border-top: 1px solid #eef0f3">
                     <td style="padding: 14px 16px"><input type="checkbox" aria-label="{{ r.selectLabel }}" style="width: 18px; height: 18px; accent-color: #3669a5"></td>
